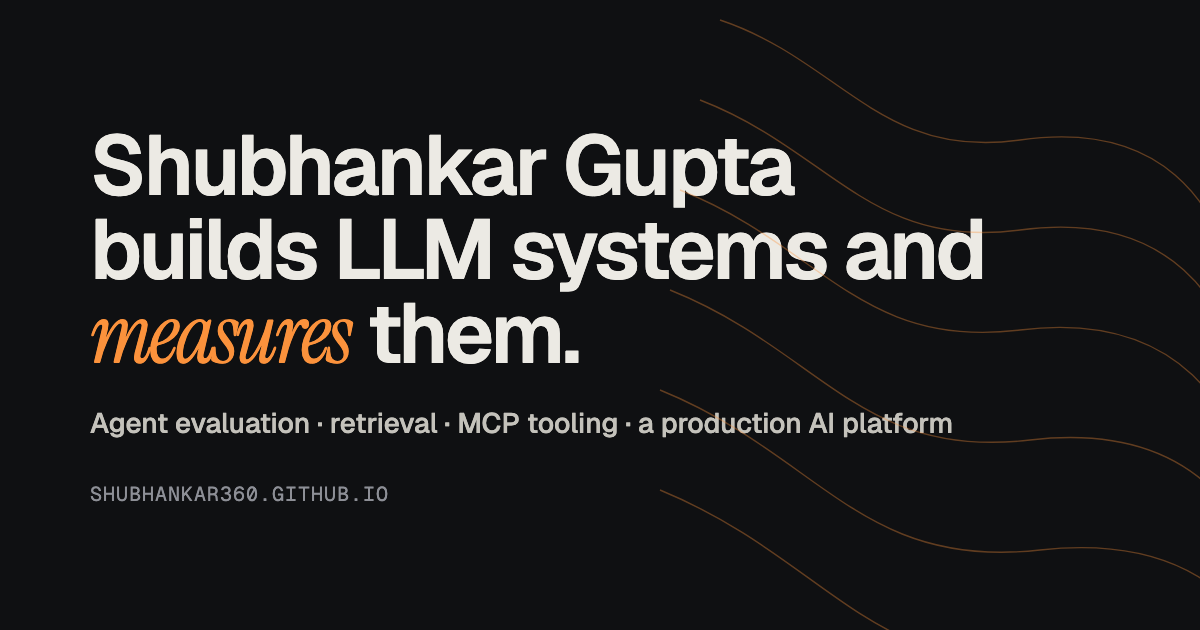
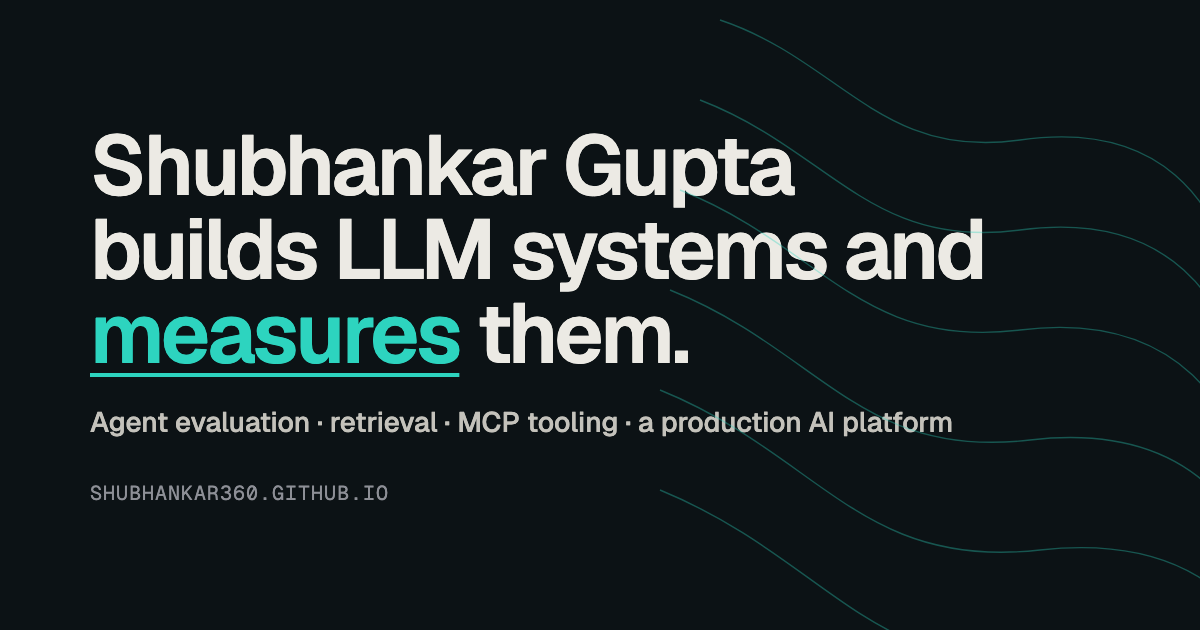
Teal measurement palette; dimension-line emphasis instead of serif italic

diff --git a/index.html b/index.html
@@ -14,20 +14,20 @@
 <link rel="icon" href="favicon.svg" type="image/svg+xml">
 <link rel="preconnect" href="https://fonts.googleapis.com">
 <link rel="preconnect" href="https://fonts.gstatic.com" crossorigin>
-<link href="https://fonts.googleapis.com/css2?family=Geist:wght@400;500;600;700&family=Geist+Mono:wght@400;500&family=Instrument+Serif:ital@0;1&display=swap" rel="stylesheet">
+<link href="https://fonts.googleapis.com/css2?family=Geist:wght@400;500;600;700&family=Geist+Mono:wght@400;500&display=swap" rel="stylesheet">
 <script type="application/ld+json">
 {"@context":"https://schema.org","@type":"Person","name":"Shubhankar Gupta","jobTitle":"AI Engineer","url":"https://shubhankar360.github.io/","email":"mailto:shubhankar15august@gmail.com","address":{"@type":"PostalAddress","addressLocality":"Delhi","addressCountry":"IN"},"sameAs":["https://github.com/shubhankar360","https://www.linkedin.com/in/shubhankar-gupta-a73aa21a0","https://solquara.com"],"knowsAbout":["LLM applications","Agent evaluation","Retrieval-augmented generation","Model Context Protocol","Python","TypeScript","WebGL"]}
 </script>
 <script>document.documentElement.classList.add("js")</script>
 <style>
 :root {
-  --bg: #f4f2ed; --bg2: #ebe8e0; --ink: #16171a; --ink2: #3b3e45; --mute: #6c6f77; --line: #d9d5cb;
-  --acc: #c2410c; --acc-ink: #fff; --card: #fbfaf7; --code: #ebe7dd;
+  --bg: #f2f5f6; --bg2: #e6ecee; --ink: #10191e; --ink2: #38464e; --mute: #64727b; --line: #d4dce0;
+  --acc: #0f766e; --acc-ink: #ffffff; --card: #fafcfc; --code: #e6ecee;
   --max: 1080px; --r: 14px;
 }
 @media (prefers-color-scheme: dark) {
-  :root { --bg: #0f1012; --bg2: #16171a; --ink: #eceae4; --ink2: #c4c2bb; --mute: #8d8f96; --line: #26282d;
-    --acc: #fb923c; --acc-ink: #1a0d04; --card: #141518; --code: #1d1f23; }
+  :root { --bg: #0c1215; --bg2: #131b1f; --ink: #e4ebee; --ink2: #b6c3c9; --mute: #7f8f98; --line: #202d34;
+    --acc: #2dd4bf; --acc-ink: #04201c; --card: #11191d; --code: #18232a; }
 }
 * { box-sizing: border-box; }
 html { background: var(--bg); color: var(--ink); -webkit-text-size-adjust: 100%; scroll-behavior: smooth; }
@@ -58,9 +58,13 @@ code { background: var(--code); padding: .1em .35em; border-radius: 5px; }
 #field.on { opacity: 1; }
 .hero .wrap { position: relative; padding-top: 96px; padding-bottom: 88px; }
 .status { display: inline-flex; align-items: center; gap: 8px; font-size: 13.5px; color: var(--ink2); border: 1px solid var(--line); background: var(--card); padding: 6px 12px; border-radius: 99px; }
-.dot { width: 8px; height: 8px; border-radius: 50%; background: #16a34a; box-shadow: 0 0 0 3px color-mix(in srgb, #16a34a 25%, transparent); }
+.dot { width: 8px; height: 8px; border-radius: 50%; background: var(--acc); box-shadow: 0 0 0 3px color-mix(in srgb, var(--acc) 25%, transparent); }
 h1 { font-size: clamp(38px, 6.4vw, 72px); line-height: 1.02; letter-spacing: -.035em; margin: 22px 0 18px; font-weight: 600; max-width: 15ch; }
-h1 em, h2 em { font-family: "Instrument Serif", Georgia, serif; font-weight: 400; font-style: italic; letter-spacing: -.01em; color: var(--acc); }
+h1 em, h2 em { font-style: normal; color: var(--acc); position: relative; white-space: nowrap; }
+/* "measure" is drawn with a dimension line: tick, rule, tick. */
+h1 em::after { content: ""; position: absolute; left: 0; right: 0; bottom: -.02em; height: .14em;
+  border: 2px solid currentColor; border-top: 0; opacity: .85; }
+h2 em { font-family: "Geist Mono", ui-monospace, monospace; font-weight: 500; font-size: .86em; letter-spacing: -.03em; }
 .lede { font-size: clamp(17px, 2vw, 20px); color: var(--ink2); max-width: 60ch; margin: 0 0 30px; }
 .cta { display: flex; flex-wrap: wrap; gap: 10px; }
 .facts { display: grid; grid-template-columns: repeat(4, 1fr); gap: 1px; background: var(--line); border: 1px solid var(--line); border-radius: var(--r); overflow: hidden; margin-top: 56px; }
@@ -410,7 +414,7 @@ footer .wrap { display: flex; justify-content: space-between; gap: 12px; flex-wr
   gl.vertexAttribPointer(loc, 2, gl.FLOAT, false, 0, 0);
   const U = (n) => gl.getUniformLocation(prog, n);
   const dark = matchMedia("(prefers-color-scheme: dark)");
-  const setColor = () => { gl.uniform3fv(U("c"), dark.matches ? [0.98, 0.57, 0.24] : [0.76, 0.25, 0.05]); gl.uniform1f(U("dark"), dark.matches ? 1 : 0); };
+  const setColor = () => { gl.uniform3fv(U("c"), dark.matches ? [0.18, 0.83, 0.75] : [0.06, 0.46, 0.43]); gl.uniform1f(U("dark"), dark.matches ? 1 : 0); };
   setColor(); dark.addEventListener?.("change", setColor);
   // Rendered at reduced resolution and upscaled: it is a soft background,
   // and fill rate is what integrated GPUs run out of first.
